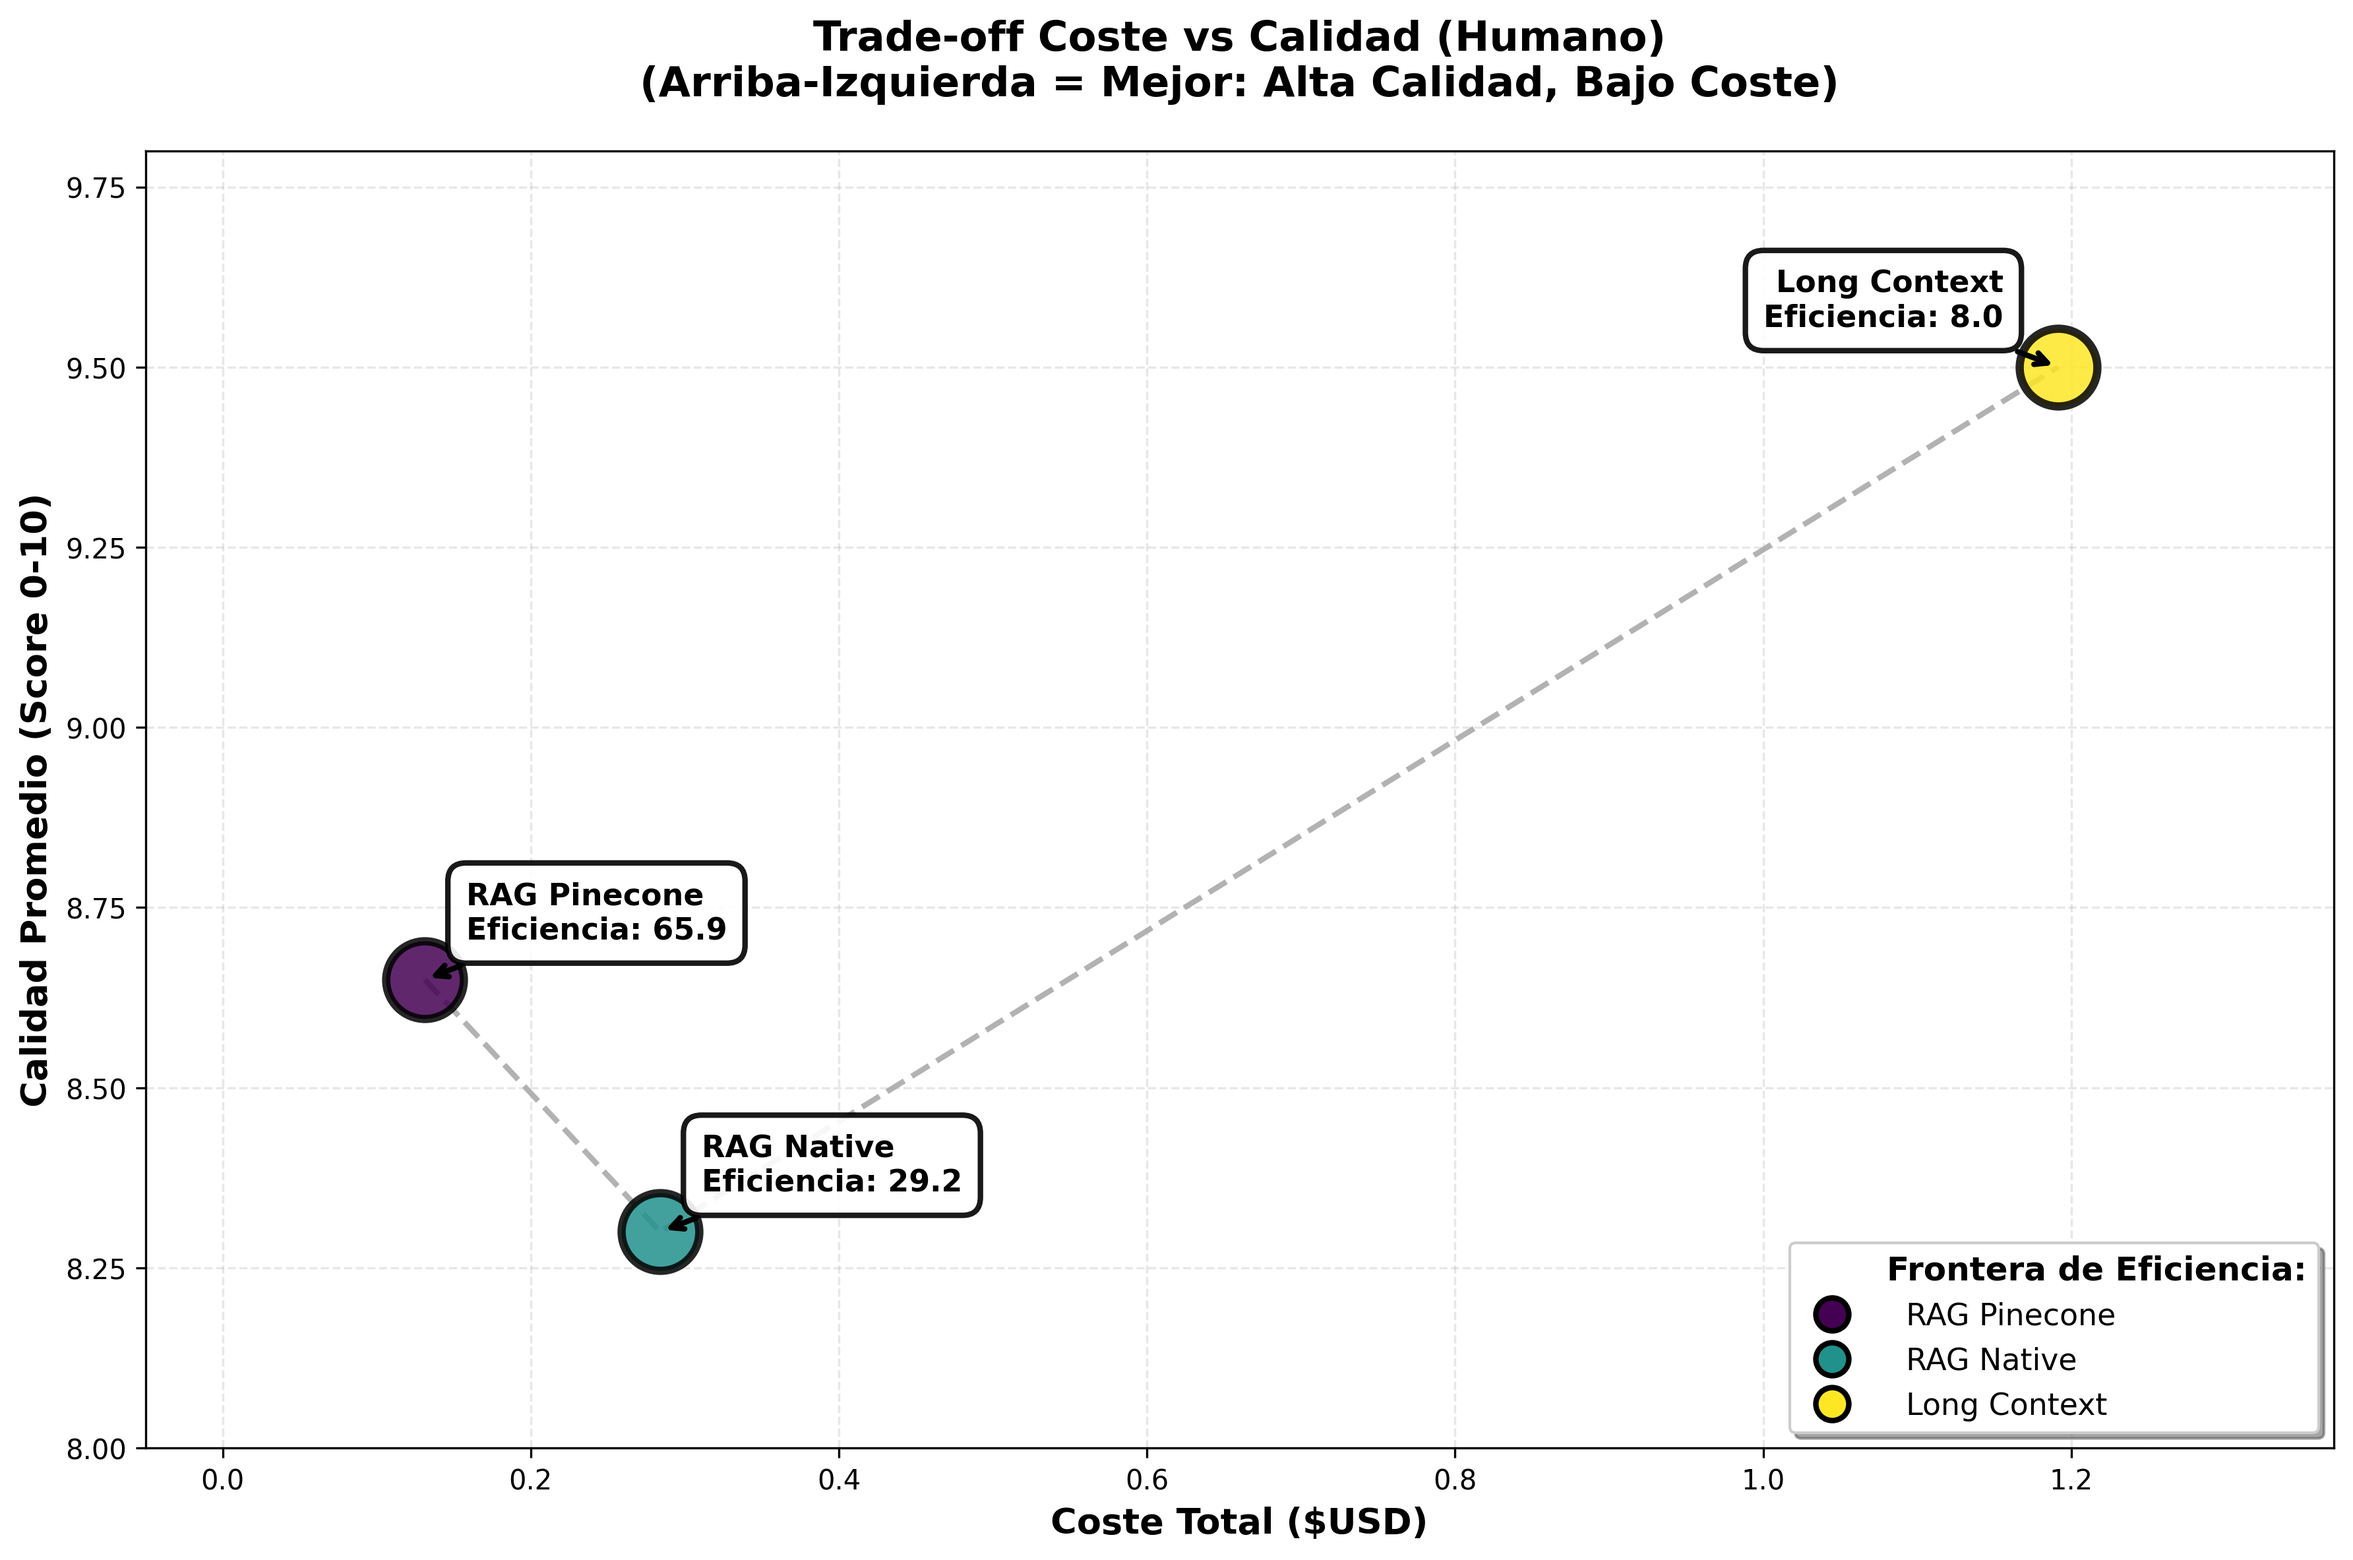
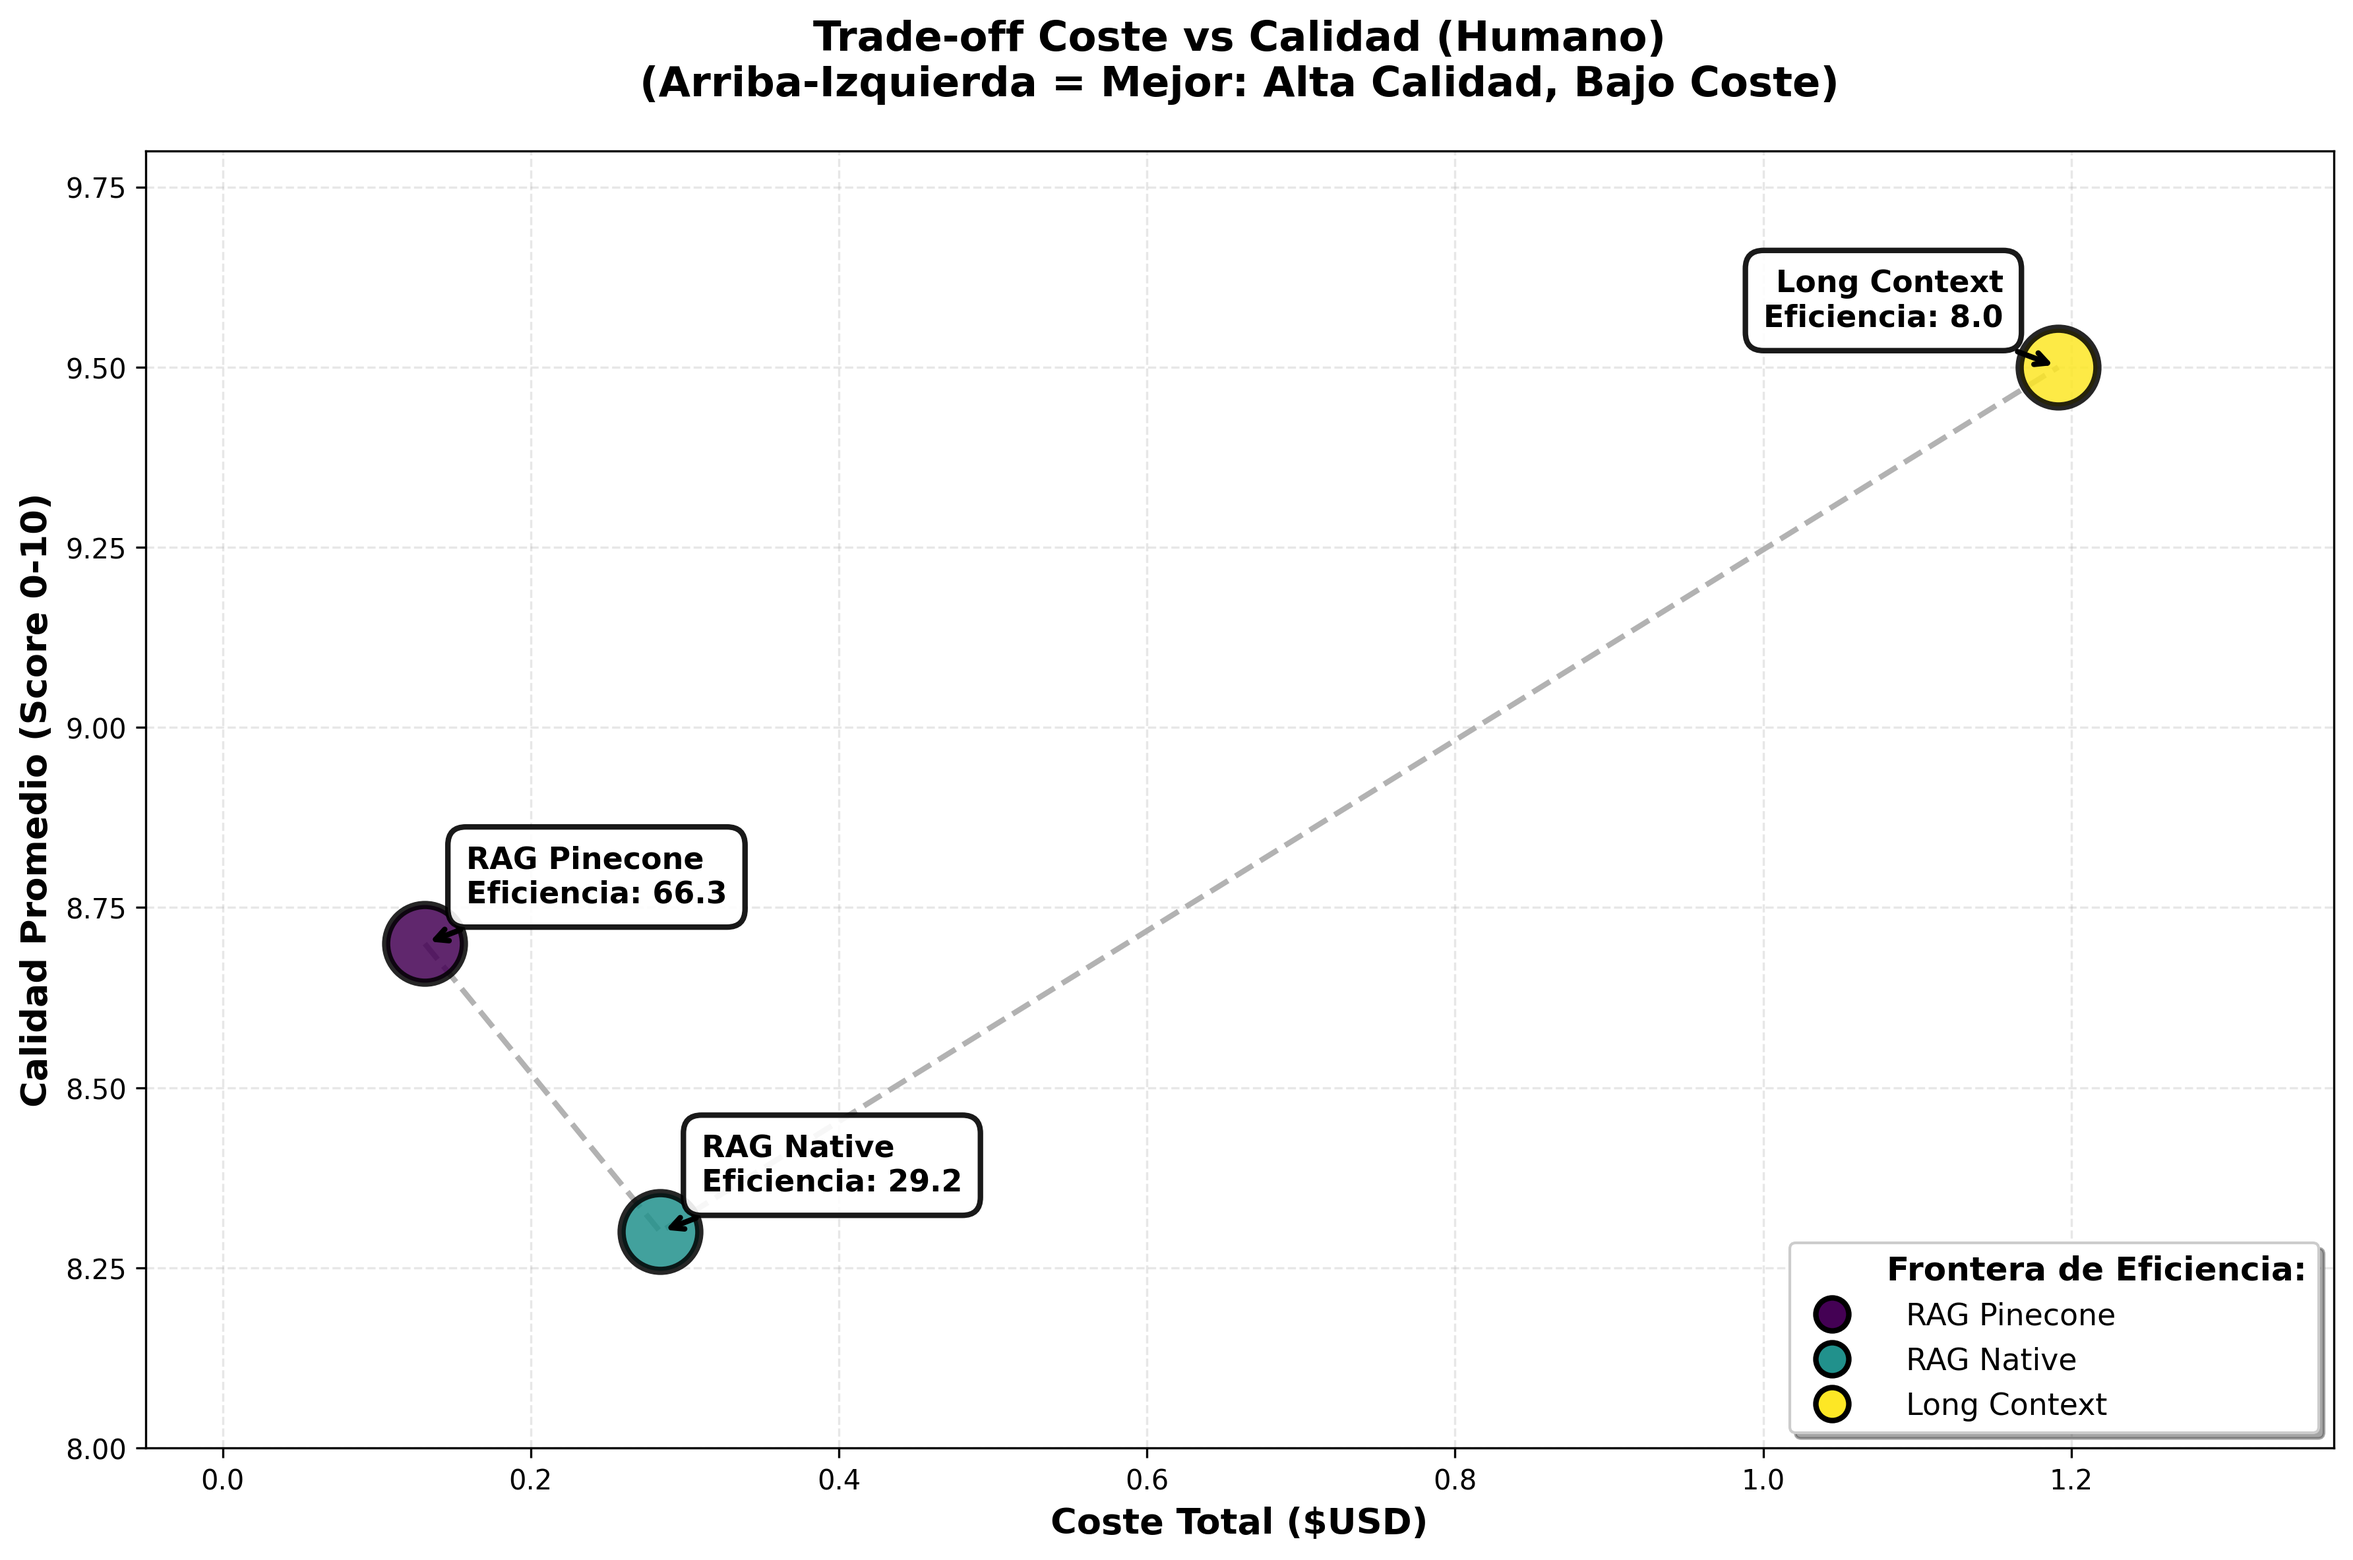
Detalles de redondear los resultados

Changed region(s): [[0.1555, 0.5245, 0.3422, 0.6788], [0.2178, 0.6788, 0.2489, 0.7405], [0.2489, 0.7405, 0.28, 0.7713]]

diff --git a/generar_graficas.py b/generar_graficas.py
@@ -148,9 +148,9 @@ def grafica_roi(df1, df2, df3, is_judge=False):
     }
     
     quality_promedio = {
-        'RAG Pinecone': df1[f'Arch1_{col_suffix}'].head(20).mean(),
-        'RAG Native': df2[f'Arch2_{col_suffix}'].head(20).mean(),
-        'Long Context': df3[f'Arch3_{col_suffix}'].head(20).mean()
+        'RAG Pinecone': np.ceil(df1[f'Arch1_{col_suffix}'].head(20).mean() * 10) / 10,
+        'RAG Native': np.ceil(df2[f'Arch2_{col_suffix}'].head(20).mean() * 10) / 10,
+        'Long Context': np.ceil(df3[f'Arch3_{col_suffix}'].head(20).mean() * 10) / 10
     }
     
     eficiencia = {k: quality_promedio[k] / costes[k] for k in costes.keys()}
@@ -275,9 +275,9 @@ def grafica_comparativa_arquitecturas(df1, df2, df3, is_judge=False):
     }
     
     calidad = {
-        'Arch1': df1[f'Arch1_{col_suffix}'].head(20).mean(),
-        'Arch2': df2[f'Arch2_{col_suffix}'].head(20).mean(),
-        'Arch3': df3[f'Arch3_{col_suffix}'].head(20).mean()
+        'Arch1': np.ceil(df1[f'Arch1_{col_suffix}'].head(20).mean() * 10) / 10,
+        'Arch2': np.ceil(df2[f'Arch2_{col_suffix}'].head(20).mean() * 10) / 10,
+        'Arch3': np.ceil(df3[f'Arch3_{col_suffix}'].head(20).mean() * 10) / 10
     }
     
     latencia = {'Arch1': df1['Arch1_Time_seconds'].head(20).mean(), 'Arch2': df2['Arch2_Time_seconds'].head(20).mean(), 'Arch3': df3['Arch3_Time_seconds'].head(20).mean()}
